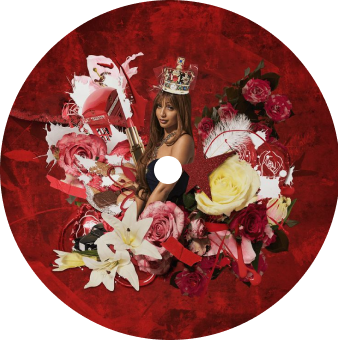
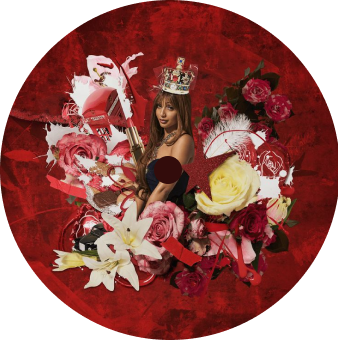
Updating Layout + Styling
- replaced album-cover images
- updated HTML to group certain elements
- build CSS styling for the side view of zodiac details
- added and referenced the JavaScript file to the index
- started storing variables in main.js

Changed region(s): [[0.4438, 0.4412, 0.5621, 0.5588]]

diff --git a/CSS/style.css b/CSS/style.css
@@ -36,12 +36,14 @@
     --small-text: 18px;
     --medium-text: 24px;
     --large-text: 36px;
-    --title-size-text: 90px;
+    --title-size-text: 75px;
 
     --tiny-space: 5px;
     --small-space: 10px;
     --medium-space: 20px;
     --large-space: 50px;
+
+    --line-height: 1.5;
 
 
 }
@@ -63,12 +65,14 @@ main{
 
 h1{
     font-family: var(--font-text);
+    line-height: var(--line-height);
 }
 
 p{
     color: var(--white);
     font-family: var(--font-text);
     font-size: var(--medium-text);
+    line-height: var(--line-height);
 }
 
 .Intro-Text{
@@ -80,7 +84,7 @@ p{
 
     color: var(--pink);
     text-shadow: -2px 2px var(--black-red);
-    font-size: var(--large-text);
+    font-size: 36px;
     
     
     
@@ -94,7 +98,7 @@ p{
         justify-self: center;
 
         grid-column: 2/span 3;
-        grid-row: 1/span 2;
+        grid-row:2;
         
     }
 
@@ -233,4 +237,109 @@ p{
         font-size: var(--small-text);
             
     }
+}
+
+.side-bar-info{
+
+    display: flex;
+    flex-direction: column;
+
+
+    background-color:rgba(41, 4, 4, 0.8);
+    
+    position: fixed;
+    top: 0;
+    left: 0;
+    bottom: 0;
+    width: 40vw;
+    padding: var(--large-space);
+
+    /*____ your song is...*/
+    .zodiac-you-are{
+        
+        padding: var(--small-space);
+        display: flex;
+        flex-direction: row;
+        gap: var(--small-space);
+        align-items: flex-end;
+
+        h1{
+            color: var(--pink);
+            font-family: var(--font-title);
+            font-size: var(--large-text);
+            margin: 0;
+            
+        }
+
+        p{
+            margin: auto 0;
+        }
+        
+    }
+
+
+    /*album picute + name*/
+    .album-pic-name{
+        display: flex;
+        flex-direction: column;
+        justify-content: center;
+        margin: 10px auto;
+
+        
+        figure{
+            margin: 0;
+        }
+        
+
+        figcaption{
+            color: pink;
+            font-family: var(--font-text-bold);
+            font-size: var(--large-text);
+            text-align: center;
+            margin-top: var(--small-space);
+            filter: drop-shadow(0px 0px 10px var(--pink));
+
+        }
+
+        #z-album-image{
+            display: flex;
+            margin: auto;
+            filter: drop-shadow(0px 0px 15px var(--pink));
+            width: 300px;
+        }
+
+        #z-album-name{
+            text-align: center;
+            margin: 0;
+            font-style: italic;
+            
+        }
+    }
+
+    /*zodiac relation*/
+    .z-description{
+        
+        display: flex;
+        flex-direction: column;
+        justify-content: center;
+        margin: auto;
+        width: 80%;
+        gap: var(--medium-space);
+        margin: 10px auto;
+
+        p{
+        font-size: 20px;
+           margin-bottom: auto;
+        }
+
+        /* #z-text1{
+            
+        } */
+
+        #z-text2-lyric{
+            text-align: right;
+            margin-top: auto;
+        }
+    }
+
 }

diff --git a/index.html b/index.html
@@ -37,22 +37,30 @@
 
 
         <!--left screen that slides in to show song description-->
-          <!-- <div class="side-bar-info"> -->
+        <aside class="side-bar-info">
             <!--___ your song is...-->
-            <!-- <h1 id="z-name"></h1>
+            <div class="zodiac-you-are">
+                <h1 id="z-name">Sagittrius</h1>
+                <p>your song is...</p>
+            </div>
 
-            <figure>
-                <img id="z-album-image" src="Content/Images/Album/tonight_album.webp" alt="album cover for Pinkpanthress's Tonight single">
-                <figcaption id="z-song"></figcaption>
-            </figure>
-            <p id="z-album-name"></p>
+            <div class="album-pic-name">
+                <figure>
+                    <img id="z-album-image" src="Content/Images/Album/tonight_album.webp" alt="album cover for Pinkpanthress's Tonight single">
+                    <figcaption id="z-song">Tonight</figcaption>
+                </figure>
+                <p id="z-album-name">from Fancy That</p>                
+            </div>
 
-          
-            <p id="z-text1"></p>
-         
 
-            <p id="z-text2-lyric"></p>
-        </div> -->
+          <div class="z-description">
+                <p id="z-text1">Born from November 22nd to December 21st, Sagittarians are on top of the world! They aren’t afraid to dive headfirst into the unknown. It also means they often make impulsive decisions and options off pure emotion. They truly are free spirits, nothing holds them back!</p>
+            
+
+                <p id="z-text2-lyric">“Talk later, that's why I'm goin' tonight /You're hot, on fire, that's why I'm goin' tonight"</p>            
+          </div>
+
+        </aside>
 
         <!--grid-->
         <div class="zodiac-selection">
@@ -121,6 +129,8 @@
 <!--java script goes here-->
 
     </main>
+
+    <script src="scripts/main.j"></script>
     
 </body>
 </html>

diff --git a/scripts/main.js b/scripts/main.js
@@ -1,0 +1,62 @@
+const zodiac_signs = [
+    {
+        id: "sagittarius",
+        sound: "",
+        text: "text",
+    },
+    {
+        id: "",
+        sound: "",
+        text: "text",
+    },
+        {
+        id: "",
+        sound: "",
+        text: "text",
+    },
+        {
+        id: "",
+        sound: "",
+        text: "text",
+    },
+        {
+        id: "",
+        sound: "",
+        text: "text",
+    },
+        {
+        id: "",
+        sound: "",
+        text: "text",
+    },
+        {
+        id: "",
+        sound: "",
+        text: "text",
+    },
+        {
+        id: "",
+        sound: "",
+        text: "text",
+    },
+        {
+        id: "",
+        sound: "",
+        text: "text",
+    },
+        {
+        id: "",
+        sound: "",
+        text: "text",
+    },
+        {
+        id: "",
+        sound: "",
+        text: "text",
+    },
+        {
+        id: "",
+        sound: "",
+        text: "text",
+    },
+];
